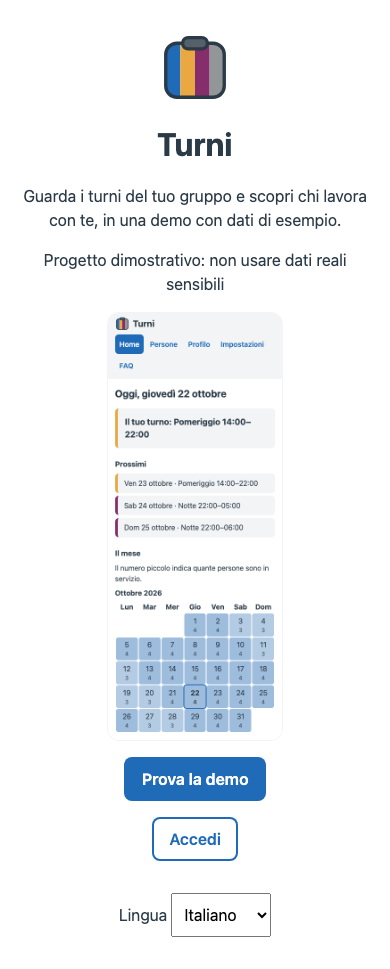
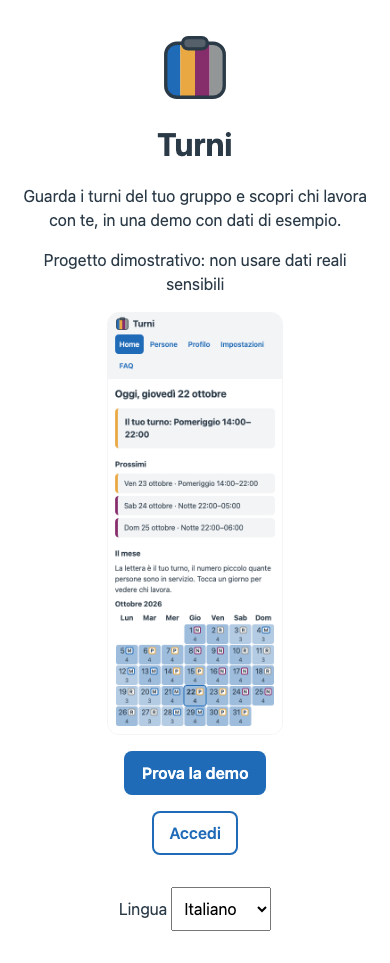
Retakes the screenshots with the shift letters and the day hint

diff --git a/src/pages/LandingPage.tsx b/src/pages/LandingPage.tsx
@@ -32,7 +32,7 @@ export function LandingPage({
         src={`${import.meta.env.BASE_URL}home.png`}
         alt={t('landing.preview')}
         width="390"
-        height="958"
+        height="944"
       />
       <button type="button" className="button" onClick={onStart}>
         {t('landing.start')}
